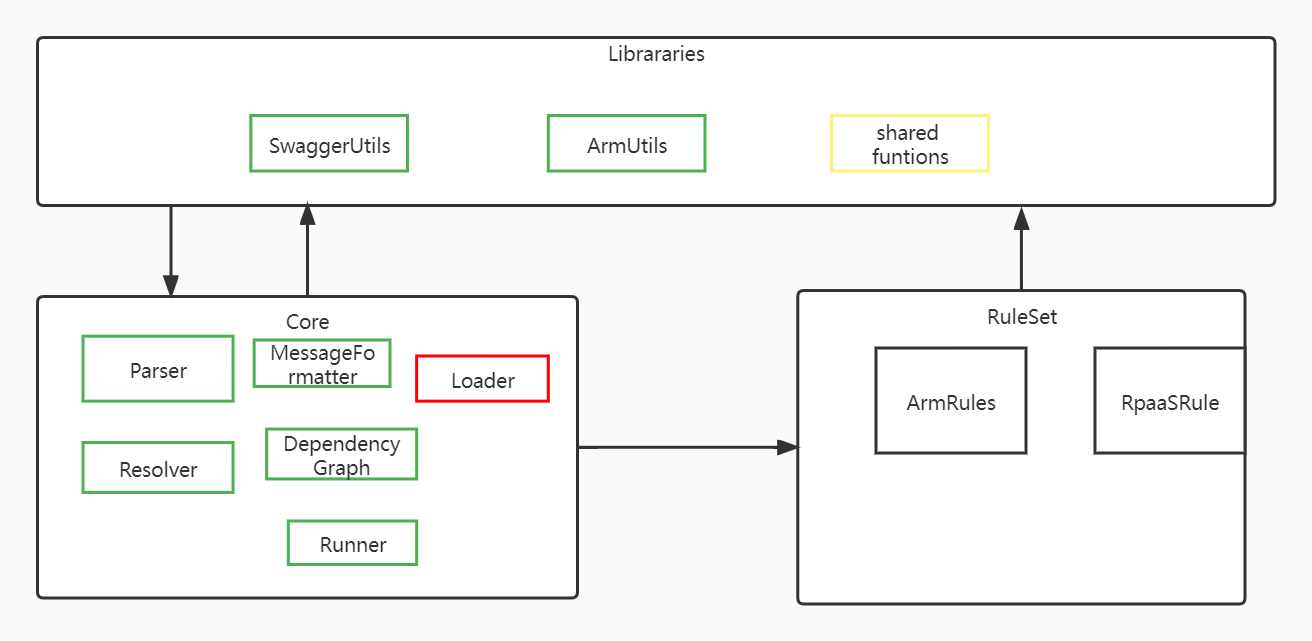
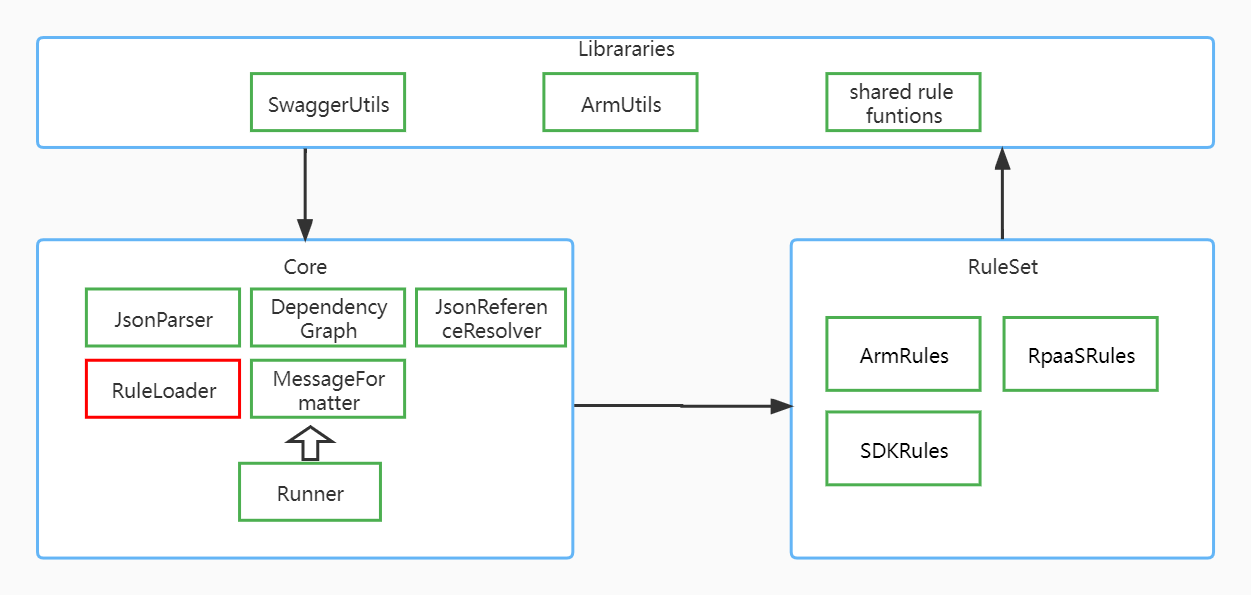
up

Changed region(s): [[0.0, 0.0303, 0.9976, 0.9681]]

diff --git a/src/typescript/commands/cli.ts b/src/typescript/commands/cli.ts
@@ -34,11 +34,10 @@ async function main() {
               }
             }
           })
-          .option("option", {
-            type: "array",
+          .option("resourceProverFolder", {
+            type: "string",
             string: true,
-            describe:
-              "Key/value pairs that can be passed to linter.  The format is 'key=value'.  This parameter can be used multiple times to add more options."
+            describe: "the folder that includes all the swagger belongs to the RP."
           })
           .option("openapiType", {
             type: "string",
@@ -55,10 +54,16 @@ async function main() {
             string: true,
             describe: "the readme.md file tag."
           })
+          .option("option", {
+            type: "array",
+            string: true,
+            describe:
+              "Key/value pairs that can be passed to linter.  The format is 'key=value'.  This parameter can be used multiple times to add more options."
+          })
       },
       async args => {
         let specs = args.specs
-        const option = { openapiType: getOpenapiTypes(args.openapiType) }
+        const option = { openapiType: getOpenapiTypes(args.openapiType), rpFolder: args.resourceProverFolder }
         if (args.readme) {
           lintReadme(args.readme, option, args.tag)
         } else {

diff --git a/src/typescript/azure-openapi-validator/runner.ts b/src/typescript/azure-openapi-validator/runner.ts
@@ -28,9 +28,9 @@ export class LintRunner<T> {
       }
       for (const given of givens) {
         for (const section of nodes(openapiDefinition, given)) {
-          const subPath = rule.then.subPath
-          if (subPath) {
-            for (const subSection of nodes(section.value, subPath)) {
+          const fieldSelector = rule.then.fieldSelector
+          if (fieldSelector) {
+            for (const subSection of nodes(section.value, fieldSelector)) {
               for await (const message of rule.then.execute(
                 openapiDefinition,
                 subSection.value,
@@ -47,7 +47,7 @@ export class LintRunner<T> {
           } else {
             for await (const message of rule.then.execute(
               openapiDefinition,
-              rule.then.subPath ? section.property : section.value,
+              section.value,
               section.path.slice(1),
               {
                 specPath: document,

diff --git a/src/typescript/azure-openapi-validator/index.ts b/src/typescript/azure-openapi-validator/index.ts
@@ -33,9 +33,9 @@ export const runRules = async (
     }
     for (const given of givens) {
       for (const section of nodes(openapiDefinition, given)) {
-        const subPath = rule.then.subPath
-        if (subPath) {
-          for (const subSection of nodes(section.value, subPath)) {
+        const fieldSelector = rule.then.fieldSelector
+        if (fieldSelector) {
+          for (const subSection of nodes(section.value, fieldSelector)) {
             for await (const message of rule.then.execute(
               openapiDefinition,
               subSection.value,
@@ -52,7 +52,7 @@ export const runRules = async (
         } else {
           for await (const message of rule.then.execute(
             openapiDefinition,
-            rule.then.subPath ? section.property : section.value,
+            section.value,
             section.path.slice(1),
             {
               specPath: document,

diff --git a/src/typescript/azure-openapi-validator/tests/utilities/tests-helper.ts b/src/typescript/azure-openapi-validator/tests/utilities/tests-helper.ts
@@ -11,7 +11,7 @@ import { IFormatter, JsonFormatter } from "../../formatter"
 import { MergeStates, OpenApiTypes, rules } from "../../rule"
 import { RuleLoader } from "../../ruleLoader"
 import ruleSet from "../../rulesets/default"
-import { getOpenapiTypes, LintRunner } from "../../runner"
+import { LintRunner } from "../../runner"
 import { IRuleSet, RulesObject } from "../../types"
 const fs = require("fs")
 const path = require("path")
@@ -24,6 +24,9 @@ export async function collectTestMessagesFromValidator(fileName: string, openapi
   let ruleLoader: RuleLoader
   if (ruleName) {
     const rules: RulesObject = {}
+    if (ruleSet.rules[ruleName]) {
+      throw new Error(`Rule ${ruleName} was not found.`)
+    }
     rules[ruleName] = ruleSet.rules[ruleName]
     const singleRuleSet: IRuleSet = { documentationUrl: "", rules }
     ruleLoader = { getRuleSet: () => singleRuleSet }

diff --git a/src/typescript/azure-openapi-validator/rulesets/default.ts b/src/typescript/azure-openapi-validator/rulesets/default.ts
@@ -64,14 +64,14 @@ export const defaultRuleSet: IRuleSet = {
   documentationUrl: "https://github.com/Azure/azure-rest-api-specs/blob/master/documentation/openapi-authoring-automated-guidelines.md",
   rules: {
     ...legacyRules,
-    noPassword: {
+    noPasswordInPropertyName: {
       id: "R4033",
       category: "ARMViolation",
       openapiType: OpenApiTypes.arm,
       severity: "error",
       given: "$.definitions.*",
       then: {
-        subPath: "$..properties.*~",
+        fieldSelector: "$..properties.*~",
         options: {
           match: ".*Password.*"
         },

diff --git a/src/typescript/azure-openapi-validator/types.ts b/src/typescript/azure-openapi-validator/types.ts
@@ -6,12 +6,12 @@ import { IRuleFunction, MergeStates, OpenApiTypes } from "./rule"
 
 export type RuleThen = {
   options: any
-  subPath?: string
+  fieldSelector?: string
   execute: IRuleFunction
 }
 
 export interface IRule {
-  readonly id: string // see Rxxx/Sxxx codes on https://github.com/Azure/azure-rest-api-specs/blob/master/documentation/openapi-authoring-automated-guidelines.md
+  readonly id: string // see rule ID
   readonly description?: string
   readonly category: "ARMViolation" | "OneAPIViolation" | "SDKViolation" | "RPaaSViolation"
   readonly openapiType: OpenApiTypes

diff --git a/src/typescript/azure-openapi-validator/tests/individual-azure-tests.ts b/src/typescript/azure-openapi-validator/tests/individual-azure-tests.ts
@@ -351,7 +351,7 @@ class IndividualAzureTests {
 
   @test public async "no password in model/property name"() {
     const fileName = "HasPassword.json"
-    const ruleName = "noPassword"
+    const ruleName = "noPasswordInPropertyName"
     const messages: Message[] = await collectTestMessagesFromValidator(fileName, OpenApiTypes.arm, ruleName)
     assertValidationRuleCount(messages, ruleName, 1)
   }

diff --git a/src/typescript/doc/overview.md b/src/typescript/doc/overview.md
@@ -1,0 +1,74 @@
+# swagger linter validation
+
+## Overview
+![image](./overview.jpg)
+
+- dependency graph
+when lint swagger , firstly we will construct the dependency graph which contains the relationship of which swaggers reference the current swagger , and which swaggers are referenced by current swagger  
+
+## Adding new rules
+1 add new shared functions or use existing functions.
+2 add rule configuration to the specified rule Set.
+
+### Shared rule functions
+```
+export type IRuleFunction = (
+  openapiDocument: any,
+  openapiSection: any,
+  location: JsonPath,
+  ctx?: RuleContext,
+  opt?: any
+) => Iterable<ValidationMessage> | AsyncIterable<ValidationMessage>
+```
+### Rule configuration
+```
+export interface IRule {
+  readonly id: string // see rule ID
+  readonly description?: string
+  readonly category: "ARMViolation" | "OneAPIViolation" | "SDKViolation" | "RPaaSViolation"
+  readonly openapiType: OpenApiTypes
+  readonly severity: "error" | "warning" | "info"
+  readonly given?: string | string[] // see https://github.com/JSONPath-Plus/JSONPath for syntax and samples.
+  readonly then: RuleThen // the rule logic
+}
+```
+
+### Rule Then
+```
+export type RuleThen = {
+  options: any   // options passing to the function
+  fieldSelector?: string  // the jsonPath to select 
+  execute: IRuleFunction
+}
+```
+
+
+## CLI usage
+```
+azure openapi linter v0.1            
+lint [specs..]
+
+lint for swagger
+
+Positionals:
+  specs  The paths to the swagger specs.
+
+Options:
+  --help                  Show help                                    [boolean]
+  --debug                 Output debug log messages.  [boolean] [default: false]
+  --version               Show version number                          [boolean]
+  --resourceProverFolder  the folder that includes all the swagger belongs to
+                          the RP.                                       [string]
+  --openapiType           the openapi type                              [string]
+  --readme                the readme.md file path.                      [string]
+  --tag                   the readme.md file tag.                       [string]
+  --option                Key/value pairs that can be passed to linter.  The
+                          format is 'key=value'.  This parameter can be used
+                          multiple times to add more options.            [array]
+```
+
+## Open questions
+### suppression
+
+1  suppression in readme.
+2  other places.
